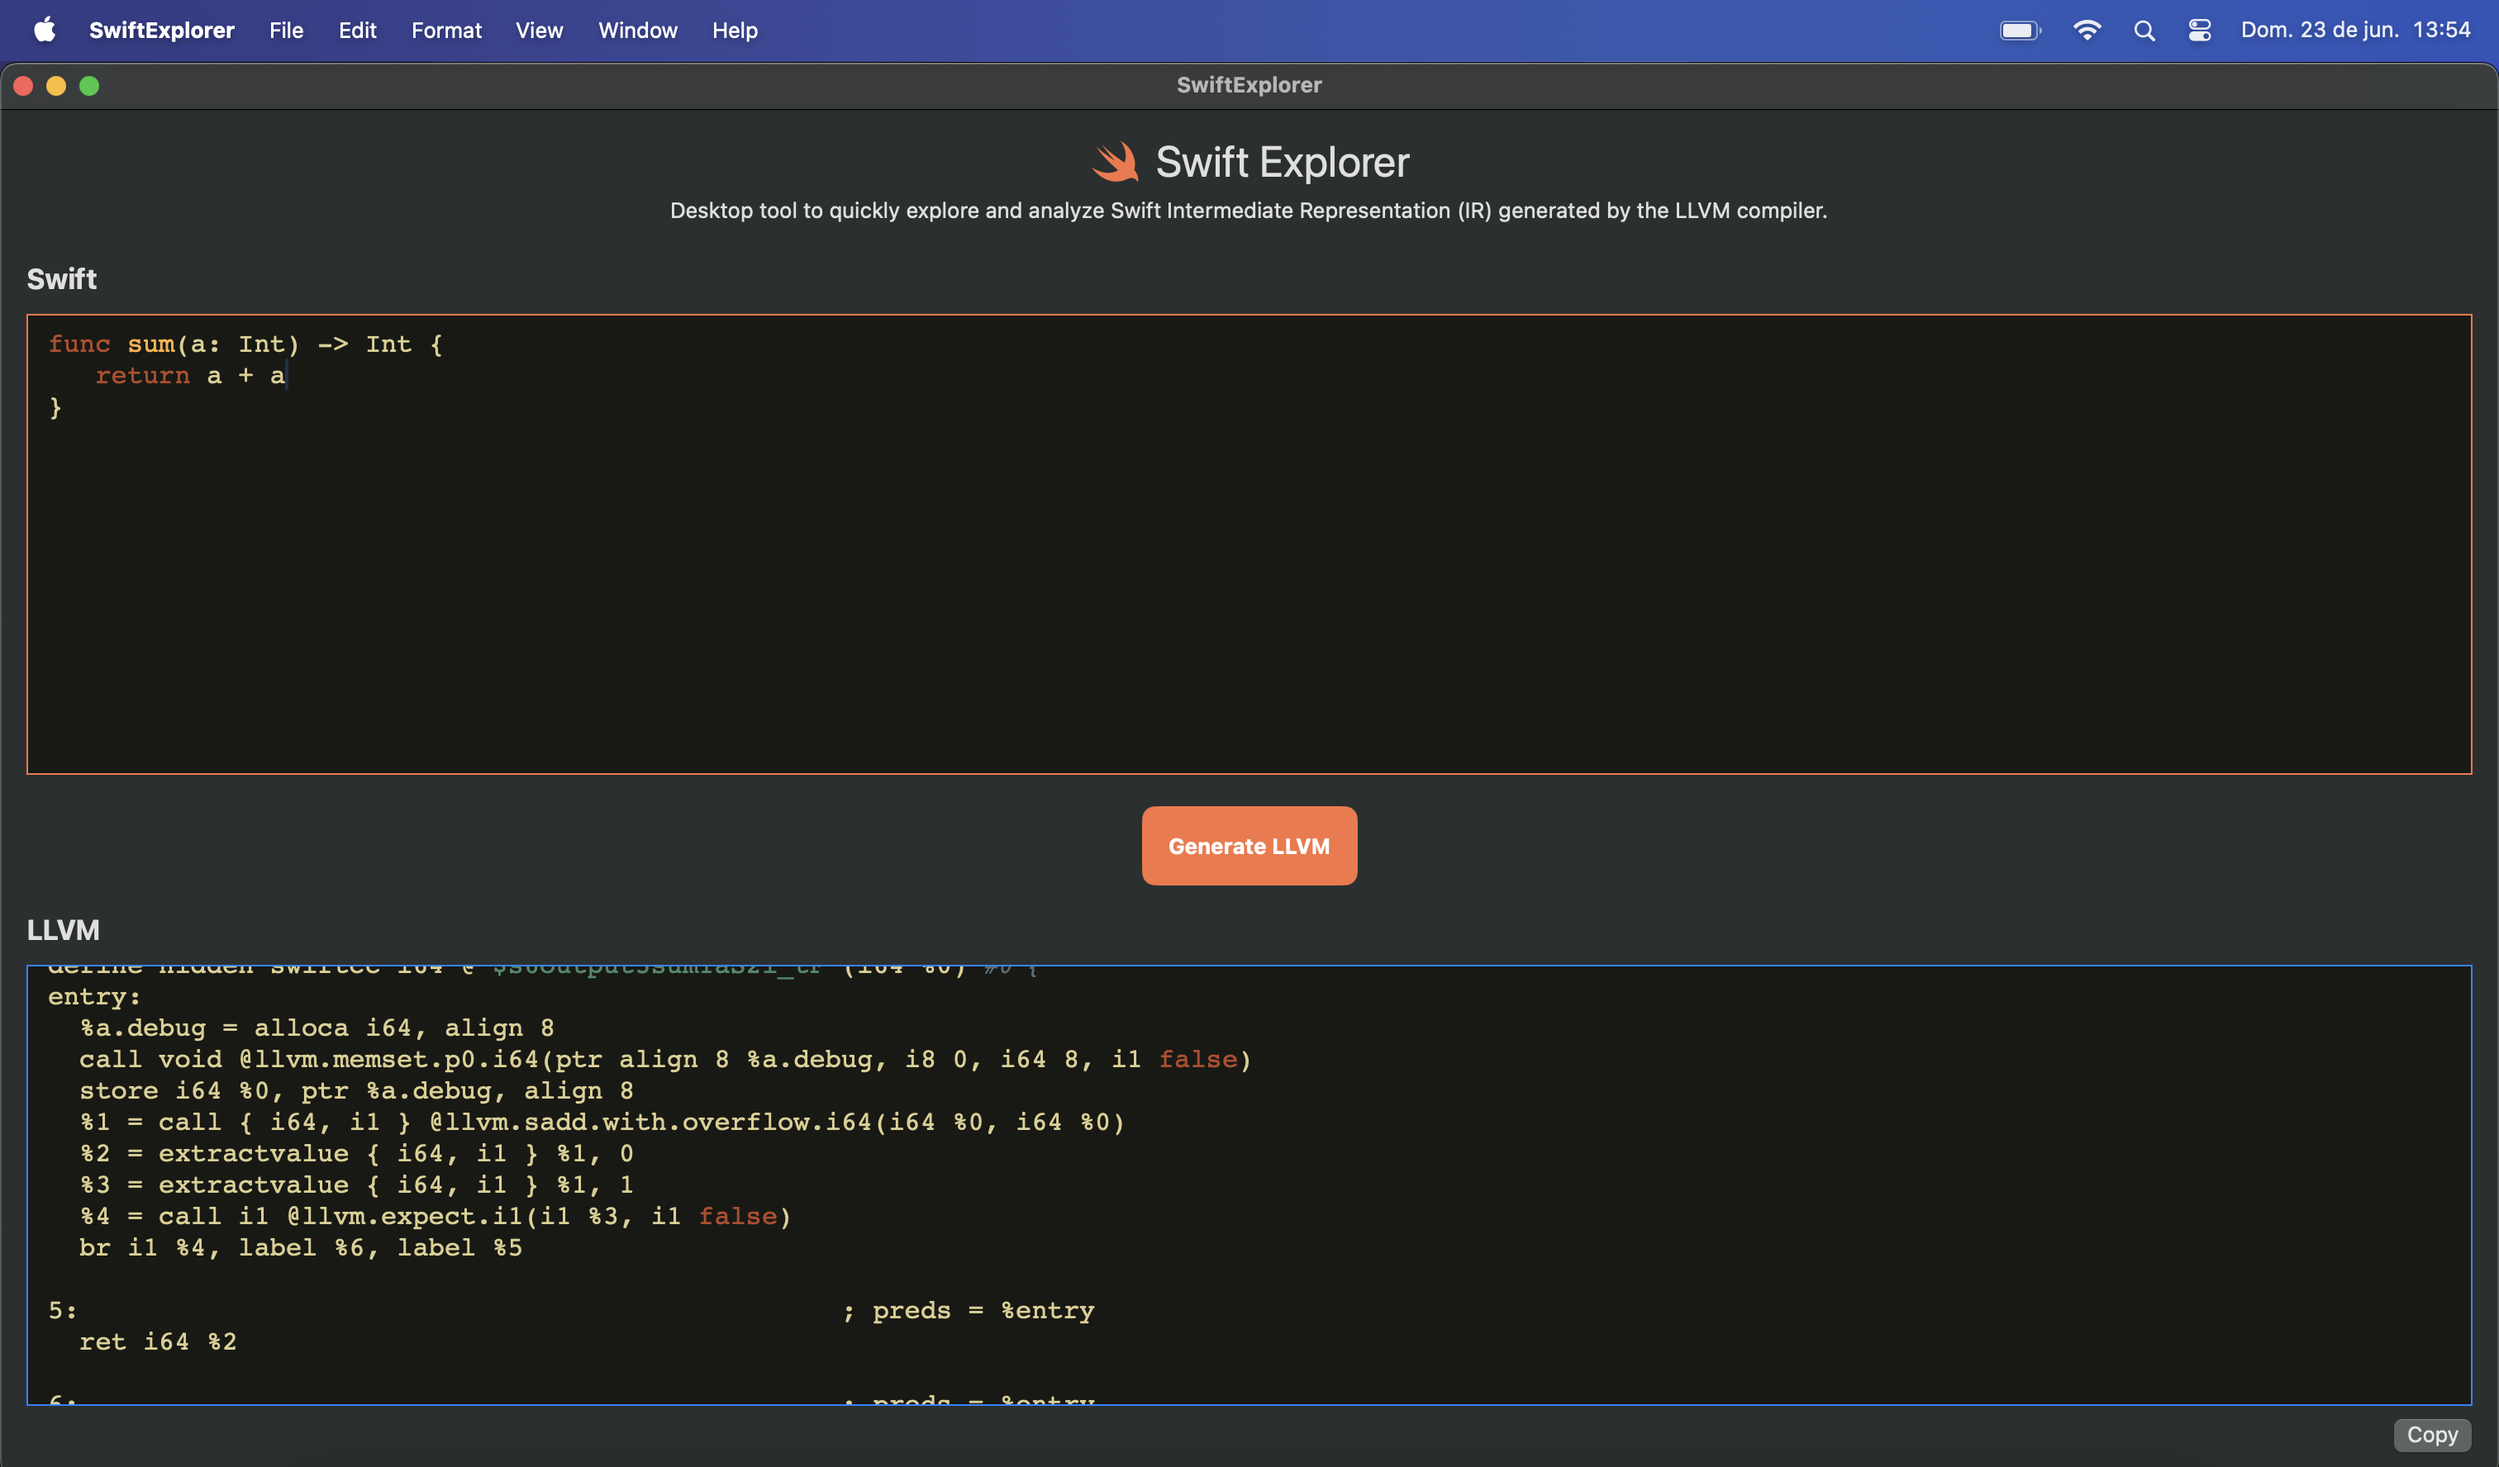
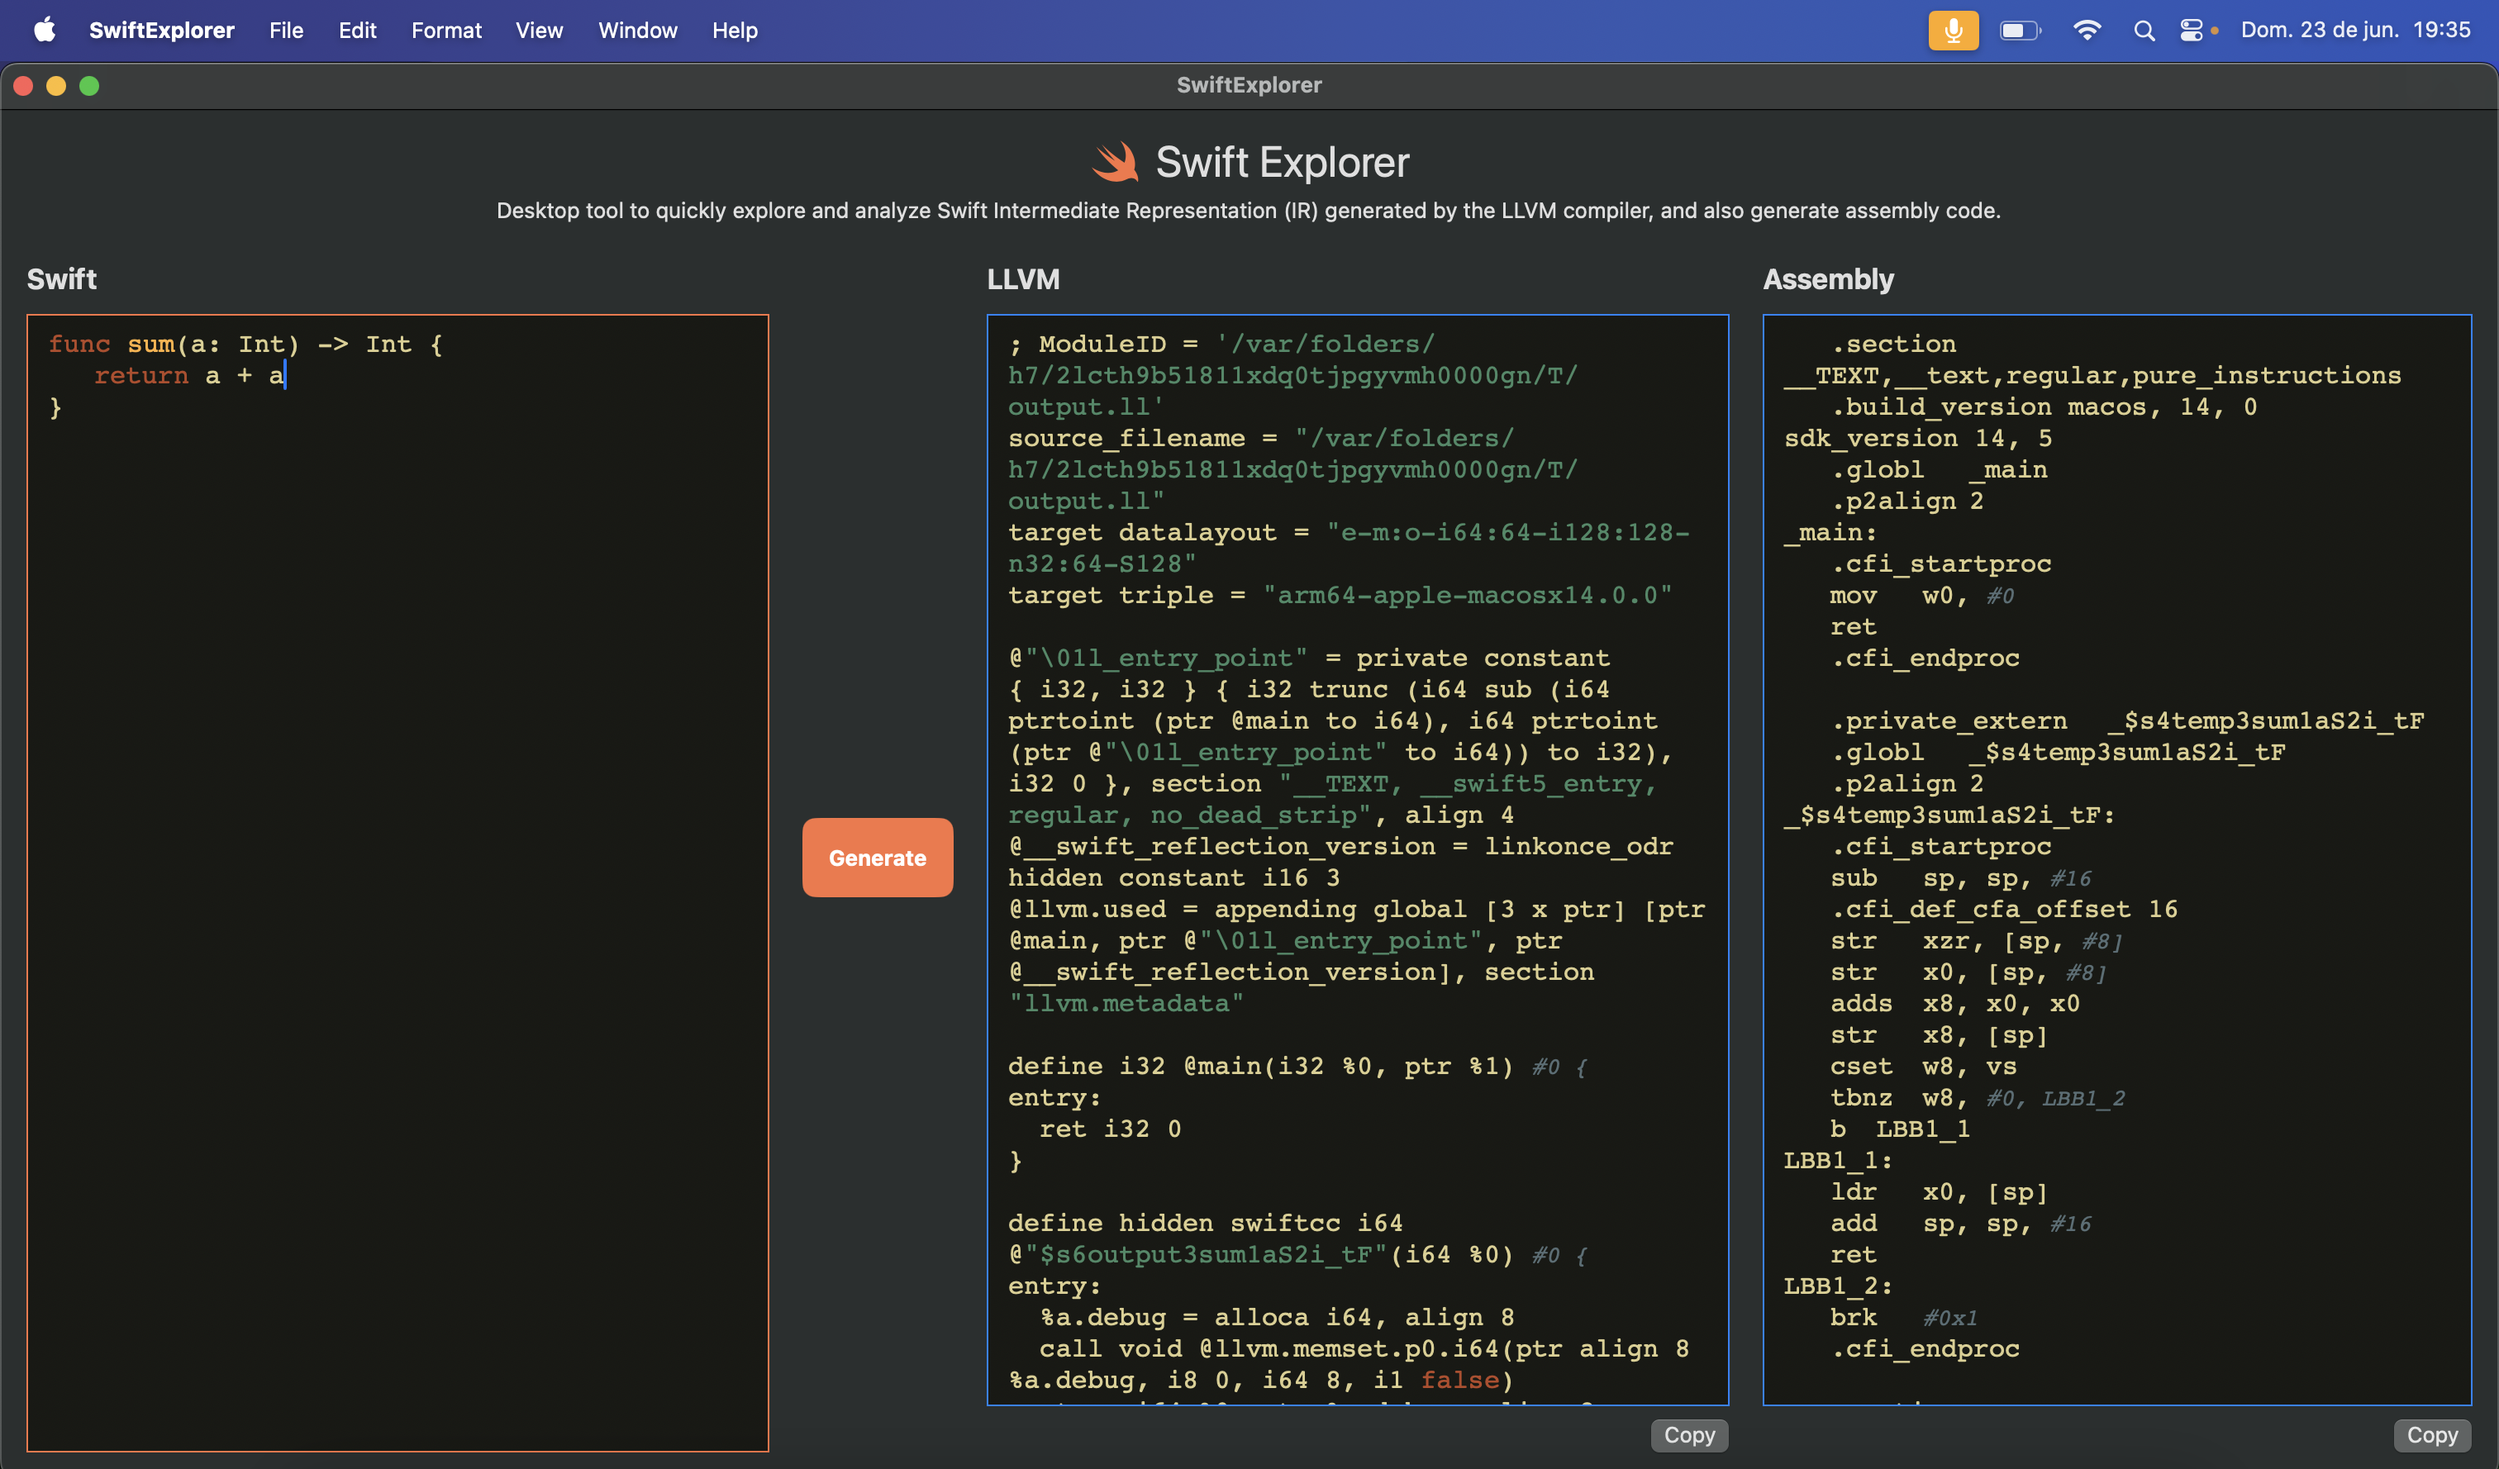
Add option to assembly

diff --git a/SwiftExplorer/Features/Home/ContentView.swift b/SwiftExplorer/Features/Home/ContentView.swift
@@ -7,12 +7,13 @@
 
 import SwiftUI
 import CodeEditor
-import Llvm
+import Lowlevel
 import Theme
 
 struct ContentView: View {
     @State private var swiftCode: String = ""
     @State private var llvm: String = ""
+    @State private var assemblyCode: String = ""
     @State private var fontSize: Int = 14
 
     var body: some View {
@@ -29,71 +30,105 @@ struct ContentView: View {
                 
                 Text(L10n.description)
             }
-            
-            VStack {
-                HStack {
-                    Text(L10n.swift)
-                        .bold()
-                        .font(.title2)
-                    
-                    Spacer()
-                }
-                
-                CodeEditor(
-                    source: $swiftCode,
-                    language: .swift,
-                    fontSize: .init(get: { CGFloat(16)  },
-                                    set: { fontSize = Int($0) }))
-                    .border(Color(hex: "#FA7343"), width: 1)
-                    .font(.system(size: 100))
-                    .frame(maxWidth: .infinity)
-            }
             .padding(.top, 16)
             
-            Button{
-                let llvm = Llvm(swiftCode: $swiftCode, llvm: $llvm)
-                llvm.generateLlvm()
-            } label: {
-                Text(L10n.generatedBytecode)
-                    .foregroundColor(.white)
-                    .padding()
-                    .background(Color(hex: "#FA7343"))
-                    .bold()
-                    .cornerRadius(8)
-            }
-            .buttonStyle(PlainButtonStyle())
-            .frame(width: 400, height: 30)
-            .padding([.top, .bottom], 20)
-            
-            VStack {
-                HStack {
-                    Text(L10n.llvm)
-                        .bold()
-                        .font(.title2)
+            HStack {
+                
+                VStack {
+                    HStack {
+                        Text(L10n.swift)
+                            .bold()
+                            .font(.title2)
+                        
+                        Spacer()
+                    }
                     
-                    Spacer()
+                    CodeEditor(
+                        source: $swiftCode,
+                        language: .swift,
+                        fontSize: .init(get: { CGFloat(16)  },
+                                        set: { fontSize = Int($0) }))
+                        .border(Color(hex: "#FA7343"), width: 1)
+                        .font(.system(size: 100))
+                        .frame(maxWidth: .infinity)
                 }
                 
-                CodeEditor(
-                    source: $llvm,
-                    language: .bash,
-                    fontSize: .init(get: { CGFloat(16)  },
-                                    set: { fontSize = Int($0) }))
-                    .border(Color.blue, width: 1)
-                
-                HStack {
-                    Spacer()
+                Button{
+                    let llvm = Llvm(swiftCode: $swiftCode, llvm: $llvm)
+                    llvm.generateLlvm()
                     
-                    Button {
-                        let pasteboard = NSPasteboard.general
-                        pasteboard.clearContents()
-                        pasteboard.setString(llvm, forType: .string)
-                    } label: {
-                        Text(L10n.copy)
+                    assemblyCode = Assembly().generateAssembly(fromSwiftCode: swiftCode)
+                } label: {
+                    Text(L10n.generatedButton)
+                        .foregroundColor(.white)
+                        .padding()
+                        .background(Color(hex: "#FA7343"))
+                        .bold()
+                        .cornerRadius(8)
+                }
+                .buttonStyle(PlainButtonStyle())
+                .padding([.leading, .trailing], 20)
+                
+                VStack {
+                    HStack {
+                        Text(L10n.llvm)
+                            .bold()
+                            .font(.title2)
+                        
+                        Spacer()
+                    }
+                    
+                    CodeEditor(
+                        source: $llvm,
+                        language: .bash,
+                        fontSize: .init(get: { CGFloat(16)  },
+                                        set: { fontSize = Int($0) }))
+                        .border(Color.blue, width: 1)
+                    
+                    HStack {
+                        Spacer()
+                        
+                        Button {
+                            let pasteboard = NSPasteboard.general
+                            pasteboard.clearContents()
+                            pasteboard.setString(llvm, forType: .string)
+                        } label: {
+                            Text(L10n.copy)
+                        }
                     }
                 }
+                
+                VStack {
+                    HStack {
+                        Text(L10n.assembly)
+                            .bold()
+                            .font(.title2)
+                        
+                        Spacer()
+                    }
+                    
+                    CodeEditor(
+                        source: $assemblyCode,
+                        language: .bash,
+                        fontSize: .init(get: { CGFloat(16)  },
+                                        set: { fontSize = Int($0) }))
+                        .border(Color.blue, width: 1)
+                    
+                    HStack {
+                        Spacer()
+                        
+                        Button {
+                            let pasteboard = NSPasteboard.general
+                            pasteboard.clearContents()
+                            pasteboard.setString(assemblyCode, forType: .string)
+                        } label: {
+                            Text(L10n.copy)
+                        }
+                    }
+                }
+                .padding(.leading, 20)
             }
+            .padding()
         }
-        .padding()
     }
 }

diff --git a/Lowlevel/Sources/Lowlevel/Assembly.swift b/Lowlevel/Sources/Lowlevel/Assembly.swift
@@ -1,0 +1,51 @@
+import Foundation
+
+public final class Assembly {
+
+    public init() {}
+
+    public func generateAssembly(fromSwiftCode swiftCode: String) -> String {
+        let tempDirectory = FileManager.default.temporaryDirectory
+        let swiftFileURL = tempDirectory.appendingPathComponent("temp.swift")
+        let assemblyFileURL = tempDirectory.appendingPathComponent("temp.s")
+        
+        do {
+            try swiftCode.write(to: swiftFileURL, atomically: true, encoding: .utf8)
+            
+            let process = processArgument(
+                assemblyFileURL: assemblyFileURL,
+                swiftFileURL: swiftFileURL)
+            
+            let pipe = Pipe()
+            process.standardOutput = pipe
+            process.standardError = pipe
+            
+            try process.run()
+            process.waitUntilExit()
+            
+            let data = pipe.fileHandleForReading.readDataToEndOfFile()
+            let output = String(data: data, encoding: .utf8) ?? ""
+            
+            if process.terminationStatus == 0 {
+                let assemblyCode = try String(contentsOf: assemblyFileURL, encoding: .utf8)
+                return assemblyCode
+            } else {
+                return L10n.errorAssemblyCode(output)
+            }
+        } catch {
+            return L10n.errorAssemblyCode(error.localizedDescription)
+        }
+    }
+    
+    private func processArgument(assemblyFileURL: URL, swiftFileURL: URL) -> Process {
+        let process = Process()
+        process.executableURL = URL(fileURLWithPath: "/usr/bin/swiftc")
+        process.arguments = [
+            "-S",
+            "-o", assemblyFileURL.path,
+            swiftFileURL.path
+        ]
+        
+        return process
+    }
+}

diff --git a/Lowlevel/Tests/LowlevelTests/LowlevelTests.swift b/Lowlevel/Tests/LowlevelTests/LowlevelTests.swift
@@ -1,8 +1,8 @@
 import XCTest
 import SwiftUI
-@testable import Llvm
+@testable import Lowlevel
 
-final class LlvmTests: XCTestCase {
+final class LowlevelTests: XCTestCase {
     
     @State private var swiftCode: String = "let a = 10"
     @State private var llvm: String = ""
@@ -22,4 +22,20 @@ final class LlvmTests: XCTestCase {
             XCTFail("Error reading temporary Swift file: \(error.localizedDescription)")
         }
     }
+    
+    func testGenerateAssembly() {
+        let swiftCode = """
+        func sum(a: Int, b: Int) -> Int {
+            return a + b
+        }
+        """
+
+        let assemblyCode = Assembly().generateAssembly(fromSwiftCode: swiftCode)
+        
+        XCTAssertTrue(assemblyCode.contains("sum"), 
+                      "The generated assembly code must contain the 'sum' function.")
+        XCTAssertTrue(assemblyCode.contains("ret"), 
+                      "The generated assembly code must contain the 'ret' instruction.")
+    }
+
 }

diff --git a/Lowlevel/Package.swift b/Lowlevel/Package.swift
@@ -4,27 +4,27 @@
 import PackageDescription
 
 let package = Package(
-    name: "Llvm",
+    name: "Lowlevel",
     defaultLocalization: "en",
     platforms: [
         .macOS(.v13)
     ],
     products: [
         .library(
-            name: "Llvm",
-            targets: ["Llvm"]
+            name: "Lowlevel",
+            targets: ["Lowlevel"]
         )
     ],
     targets: [
         .target(
-            name: "Llvm",
+            name: "Lowlevel",
             resources: [
                 .process("Localizable")
             ]
         ),
         .testTarget(
-            name: "LlvmTests",
-            dependencies: ["Llvm"]
+            name: "LowlevelTests",
+            dependencies: ["Lowlevel"]
         )
     ]
 )

diff --git a/SwiftExplorerTests/Features/Home/ContentViewTests.swift b/SwiftExplorerTests/Features/Home/ContentViewTests.swift
@@ -14,6 +14,6 @@ final class ContentViewTests: XCTestCase {
 
     func testShouldValidateLayout() {
         let view = ContentView()
-        assertSnapshot(of: view.view(width: 500, height: 500), as: .image)
+        assertSnapshot(of: view.view(width: 800, height: 800), as: .image)
     }
 }
